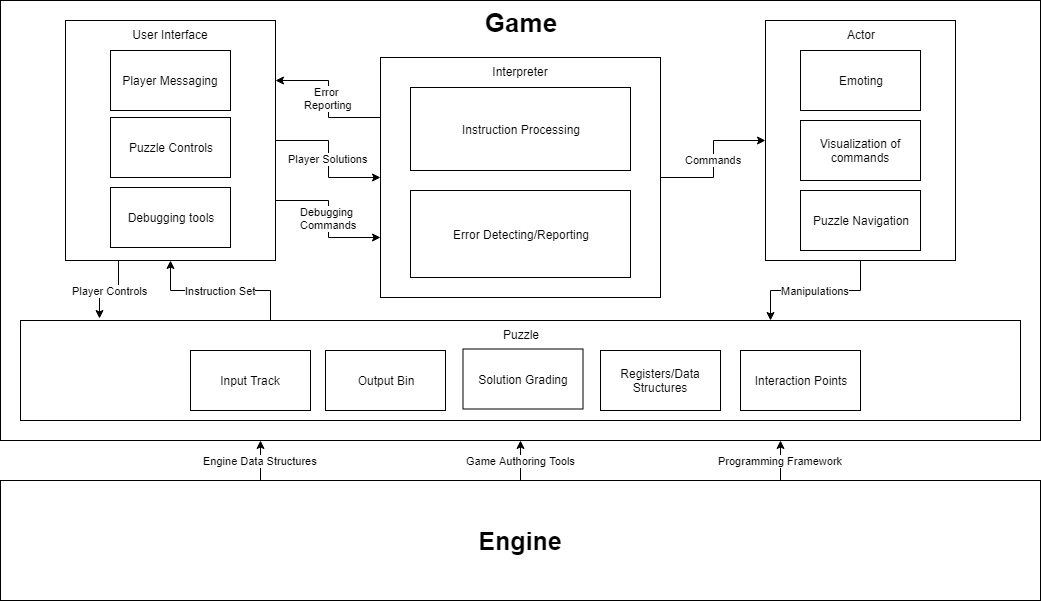
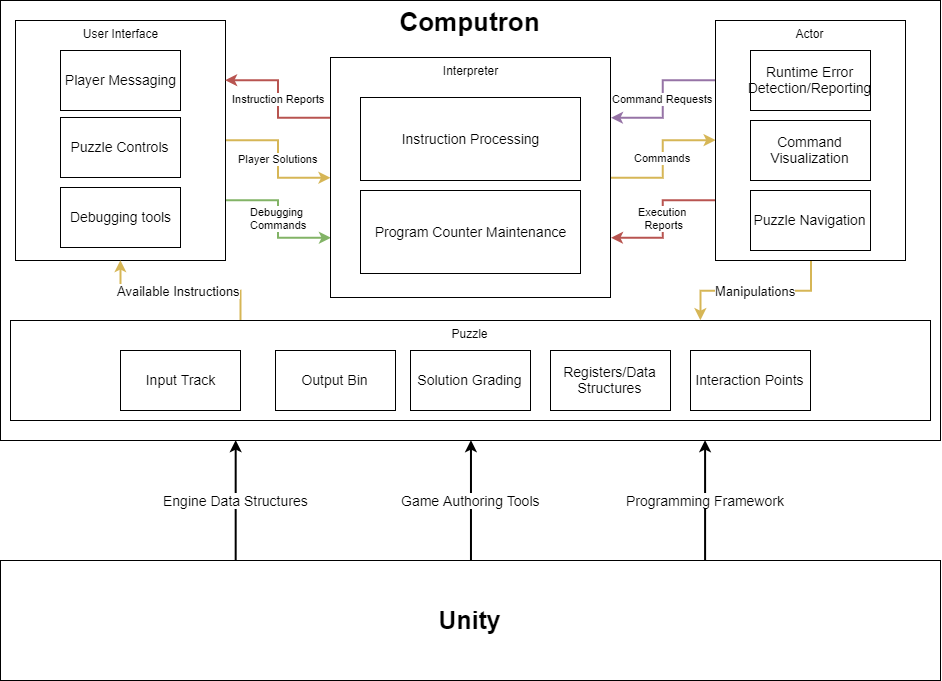
Finish overall system diagram

Changed region(s): [[0.0, 0.0, 1.0, 1.0], [0.3694, 0.0, 0.6465, 0.1498], [0.4618, 0.8686, 0.5541, 0.9285]]

diff --git a/sections/system_design/project_structure.tex b/sections/system_design/project_structure.tex
@@ -1,0 +1,10 @@
+At the highest level, our game can be broken into 5 major systems that will work together to provide the experience we are hoping to create. These parts are The Engine, The Puzzle System, The User Interface, The Interpreter, and The Actor. The relationship between these systems has been designed to be as simple as possible. As shown in figure \ref{fig:overall_system_diagram}, each major system is only responsible for interfacing with two others. 
+
+\begin{figure}[!hb]
+    \caption{Computron System Overview}
+    \label{fig:overall_system_diagram}
+    \centering
+    \includegraphics[width=\textwidth]{Diagrams/SystemDiagram.png}
+\end{figure}
+
+The nature of these interfaces, as well as the operations, responsibilities, and requirements of each of these major systems will be detailed in subsequent sections.

diff --git a/sections/system_design/system_design.tex b/sections/system_design/system_design.tex
@@ -17,9 +17,7 @@
 \newpage
 
 \subsection{Interpreter}
-\subsubsection{Language}
-\subsubsection{Parser}
-\subsubsection{Executor}
+\input{sections/system_design/interpreter.tex}
 \newpage
 
 \subsection{Actor}
